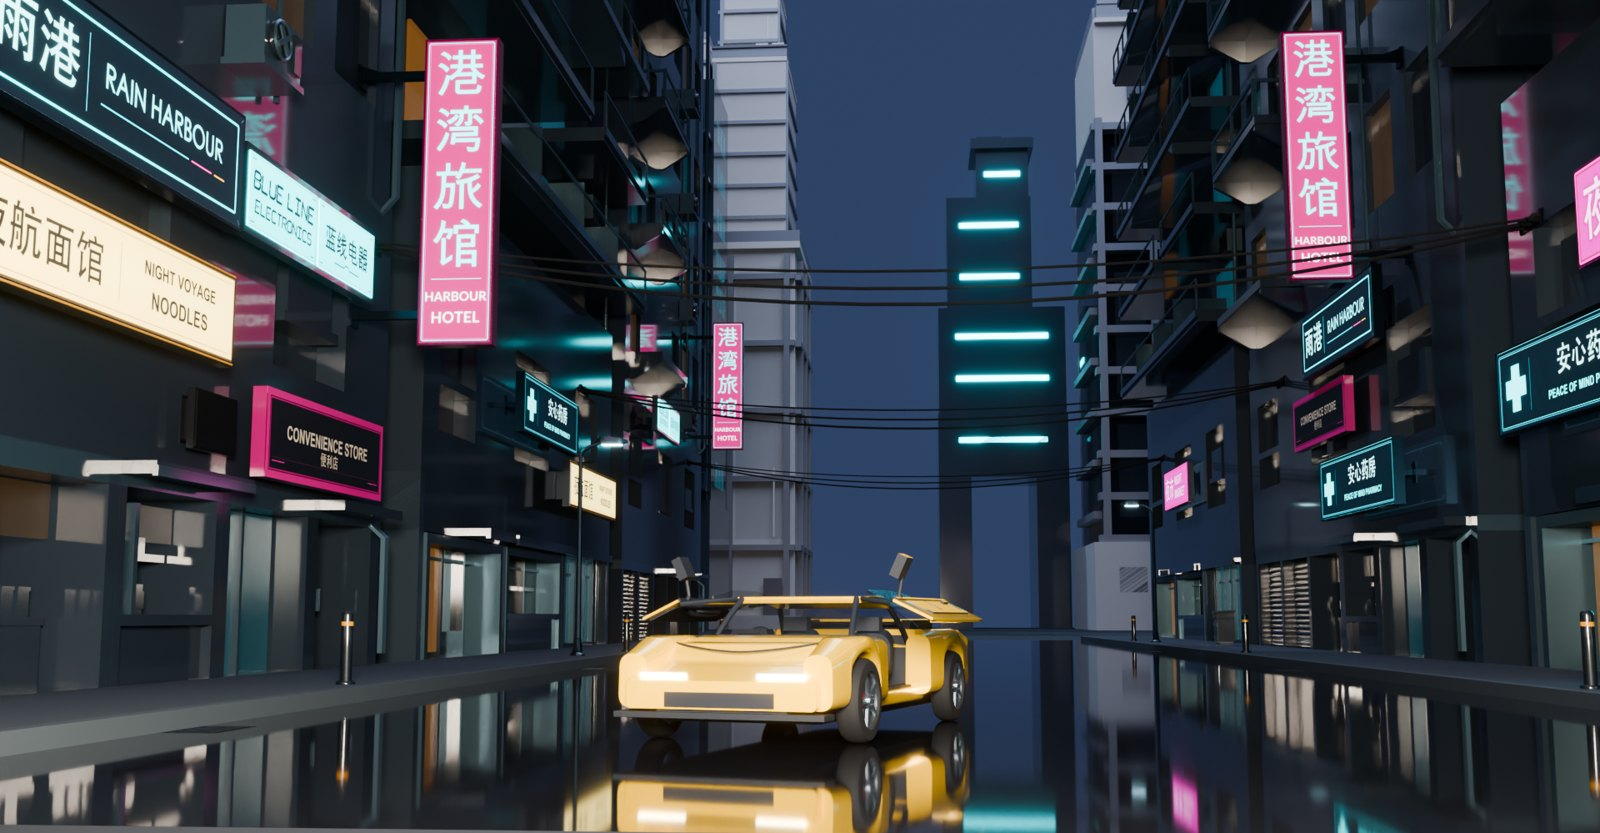
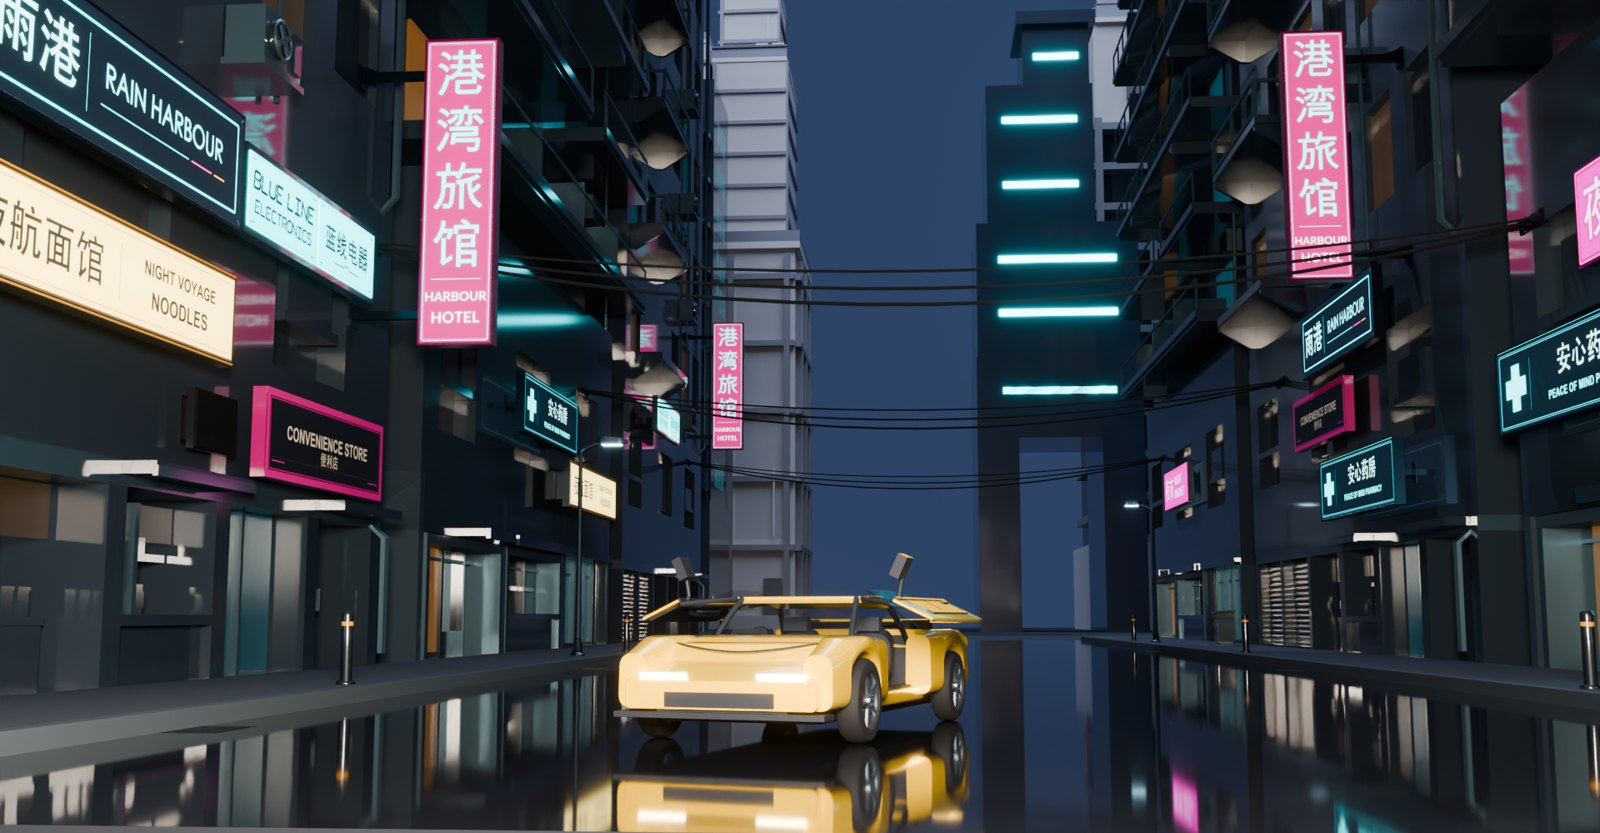
docs(rain harbour): the change by hand moves a tower too

diff --git a/docs/NEW-IN-1.3.md b/docs/NEW-IN-1.3.md
@@ -191,18 +191,19 @@ text-to-mesh model.
 ### Changed by hand, no AI
 
 A level made from one prompt is still yours to change, with no model at all. Opened from the Worlds tab in Hermes,
-**Arrange**, click AURIC, **Turn 90°** twice and the arrow keys to bring it out into the middle of the street;
-**Save** checks the level and rebuilds it (the same six cable notes as before, nothing new). Exported again and
-rendered from the same camera, with the car's doors opened on their own hinges:
+**Arrange**: click AURIC, **Turn 90°** twice and the arrow keys to bring it out into the middle of the street; click
+the cyan-banded signal tower at the end of the street and bring it 30 m closer with the arrow keys. **Save** checks
+the level and rebuilds it (the same six cable notes as before, nothing new). Exported again and rendered from the
+same camera, with the car's doors opened on their own hinges:
 
 <p align="center"><img src="media/worlds/hermes-arrange-rain-harbour.png" width="70%" alt="Rain Harbour on its card in Hermes Desktop, in the solid view: AURIC chosen, moved 3.45 m and turned 180°, the Arrange bar with Save 1 change"></p>
 
 <p align="center">
   <img src="../examples/worlds/rain-harbour/blender-street.jpg" width="49%" alt="Rain Harbour as it was made: AURIC parked at the front left, facing away">
-  <img src="../examples/worlds/rain-harbour/blender-arranged.jpg" width="49%" alt="The same street after the change by hand: AURIC in the middle of the road facing the camera, its gull-wing doors raised">
+  <img src="../examples/worlds/rain-harbour/blender-arranged.jpg" width="49%" alt="The same street after the change by hand: AURIC in the middle of the road facing the camera, its gull-wing doors raised, and the cyan-banded tower 30 m closer, larger at the end of the street">
 </p>
-<p align="center"><sub>Left, the level as Hermes made it; right, after two clicks and a few key presses in Hermes, with
-AURIC's doors open. Same camera, same light; nothing else changed.</sub></p>
+<p align="center"><sub>Left, the level as Hermes made it; right, after a few clicks and key presses in Hermes: the car
+turned and moved, the tower brought closer, AURIC's doors open. Same camera, same light; nothing else changed.</sub></p>
 
 ## Out to other tools, finished
 

diff --git a/examples/worlds/rain-harbour/README.md b/examples/worlds/rain-harbour/README.md
@@ -319,13 +319,14 @@ the run's record; the world's own `authoring` keeps the 12 rounds.
 ## Changed by hand
 
 The level stays yours to change after the run, with no model turn. Opened from the Worlds tab in Hermes Desktop,
-**Arrange**: click AURIC, **Turn 90°** twice, the arrow keys to bring it into the middle of the street, **Save**. The
-save checks the level (the same six cable notes, nothing new), keeps the move in the world's log as the user's, and
-rebuilds it. In `world.json` the change is one line: the car's `at` and `yaw`.
+**Arrange**: click AURIC, **Turn 90°** twice, the arrow keys to bring it into the middle of the street; click the
+cyan-banded signal tower at the end of the street and bring it 30 m closer; **Save** after each. A save checks the
+level (the same six cable notes, nothing new), keeps the move in the world's log as the user's, and rebuilds it. In
+`world.json` each change is one line: a placement's `at` and `yaw`.
 
 <p align="center">
   <img src="blender-street.jpg" width="49%" alt="The level as it was made: AURIC parked at the front left, facing away">
-  <img src="blender-arranged.jpg" width="49%" alt="After the change by hand: AURIC in the middle of the road facing the camera, its gull-wing doors raised">
+  <img src="blender-arranged.jpg" width="49%" alt="After the change by hand: AURIC in the middle of the road facing the camera, its gull-wing doors raised, and the cyan-banded tower 30 m closer">
 </p>
 <p align="center"><sub>Before and after, rendered from the same camera; on the right, AURIC's doors opened on their own
 hinges (the export's <code>--pose open</code>).</sub></p>
